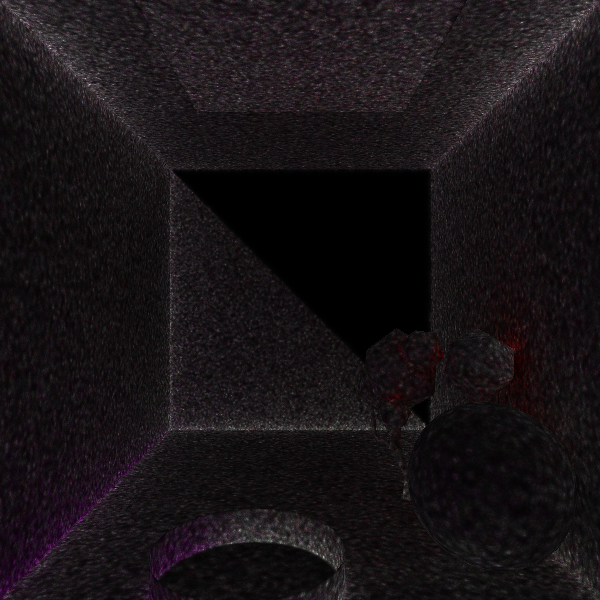
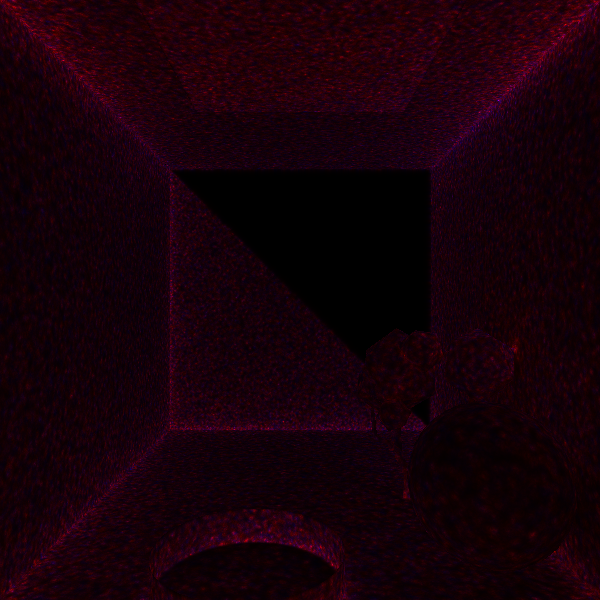
Add color light

diff --git a/PhotonMapping/Scene.cpp b/PhotonMapping/Scene.cpp
@@ -320,7 +320,7 @@ glm::vec3 Scene::trace(std::shared_ptr<Ray> ray, const int &depth, const float &
 }
 
 
-glm::vec3 Scene::computeShadow(const glm::vec3 &lightPosition, const glm::vec3 &normal, const glm::vec3 &hitPos, const float &intensity, std::shared_ptr<Material> material, std::shared_ptr<Ray> r, const int &lightId)
+glm::vec3 Scene::computeShadow(const glm::vec3 &lightPosition, const glm::vec3 &normal, const glm::vec3 &hitPos, const float &intensity, std::shared_ptr<Material> material, std::shared_ptr<Ray> r, const int &lightId, glm::vec3 lightColor)
 {
 	glm::vec3 color = Settings::backgroundColor;
 	glm::vec3 L = lightPosition - hitPos;
@@ -360,7 +360,7 @@ glm::vec3 Scene::computeShadow(const glm::vec3 &lightPosition, const glm::vec3 &
 			L = glm::normalize(L);
 			float specInt = computeSpecularPointLightIntensity(L, normal, r, lightInt, hitMaterial->getSpecularExponent(), hitMaterial->getSpecularFactor());
 
-			color = (material->getDiffuse() * lightInt) + specInt;
+			color = lightColor * ((material->getDiffuse() * lightInt) + specInt);
 		}
 	}
 	else if (squareLight == NULL || shadowRay->getRayHit()->hit.geomID == lightId)
@@ -380,7 +380,7 @@ glm::vec3 Scene::computeShadow(const glm::vec3 &lightPosition, const glm::vec3 &
 		// Phong Specular intensity
 		float specInt = computeSpecularPointLightIntensity(L, normal, r, lightInt, material->getSpecularExponent(), material->getSpecularFactor());
 
-		color = (material->getDiffuse() * lightInt) + specInt;
+		color = lightColor * ((material->getDiffuse() * lightInt) + specInt);
 
 	}
 	return color;
@@ -404,7 +404,7 @@ glm::vec3 Scene::shade(std::shared_ptr<Ray> r, std::shared_ptr<Material> materia
 			std::shared_ptr<PointLight> pointLight = std::dynamic_pointer_cast<PointLight>(lights[i]);
 			if (pointLight != NULL)
 			{
-				color += computeShadow(pointLight->getPosition(), normal, hitPos, pointLight->getIntensity(), material, r, -1);
+				color += computeShadow(pointLight->getPosition(), normal, hitPos, pointLight->getIntensity(), material, r, -1, pointLight->getColor());
 			}
 
 			/* Square light */
@@ -420,7 +420,7 @@ glm::vec3 Scene::shade(std::shared_ptr<Ray> r, std::shared_ptr<Material> materia
 				for (int i = 0; i < corners.size() && finishShadow; i++)
 				{
 					glm::vec3 point = corners[i];
-					glm::vec3 cornerColor = computeShadow(point, normal, hitPos, intensity, material, r, squareLight->getGeometryId());
+					glm::vec3 cornerColor = computeShadow(point, normal, hitPos, intensity, material, r, squareLight->getGeometryId(), squareLight->getColor());
 					if (cornerColor == Settings::backgroundColor)
 					{
 						finishShadow = false;
@@ -435,7 +435,7 @@ glm::vec3 Scene::shade(std::shared_ptr<Ray> r, std::shared_ptr<Material> materia
 					float intensity = squareLight->getIntensity() / points.size();
 					for (int j = 0; j < points.size(); ++j)
 					{
-						color += computeShadow(points[j], normal, hitPos, intensity, material, r, squareLight->getGeometryId());
+						color += computeShadow(points[j], normal, hitPos, intensity, material, r, squareLight->getGeometryId(), squareLight->getColor());
 					}
 				}
 				else

diff --git a/PhotonMapping/Scene.h b/PhotonMapping/Scene.h
@@ -61,6 +61,6 @@ private:
 
 	glm::vec3 trace(std::shared_ptr<Ray> ray, const int& depth, const float& currentRefract);
 	glm::vec3 shade(std::shared_ptr<Ray> r, std::shared_ptr<Material> material, int depth, float currentRefract);
-	glm::vec3 computeShadow(const glm::vec3& lightPosition, const glm::vec3& normal, const glm::vec3& hitPos, const float& intensity, std::shared_ptr<Material> material, std::shared_ptr<Ray> r, const int& lightId);
+	glm::vec3 computeShadow(const glm::vec3& lightPosition, const glm::vec3& normal, const glm::vec3& hitPos, const float& intensity, std::shared_ptr<Material> material, std::shared_ptr<Ray> r, const int& lightId, glm::vec3 lightColor);
 };
 
